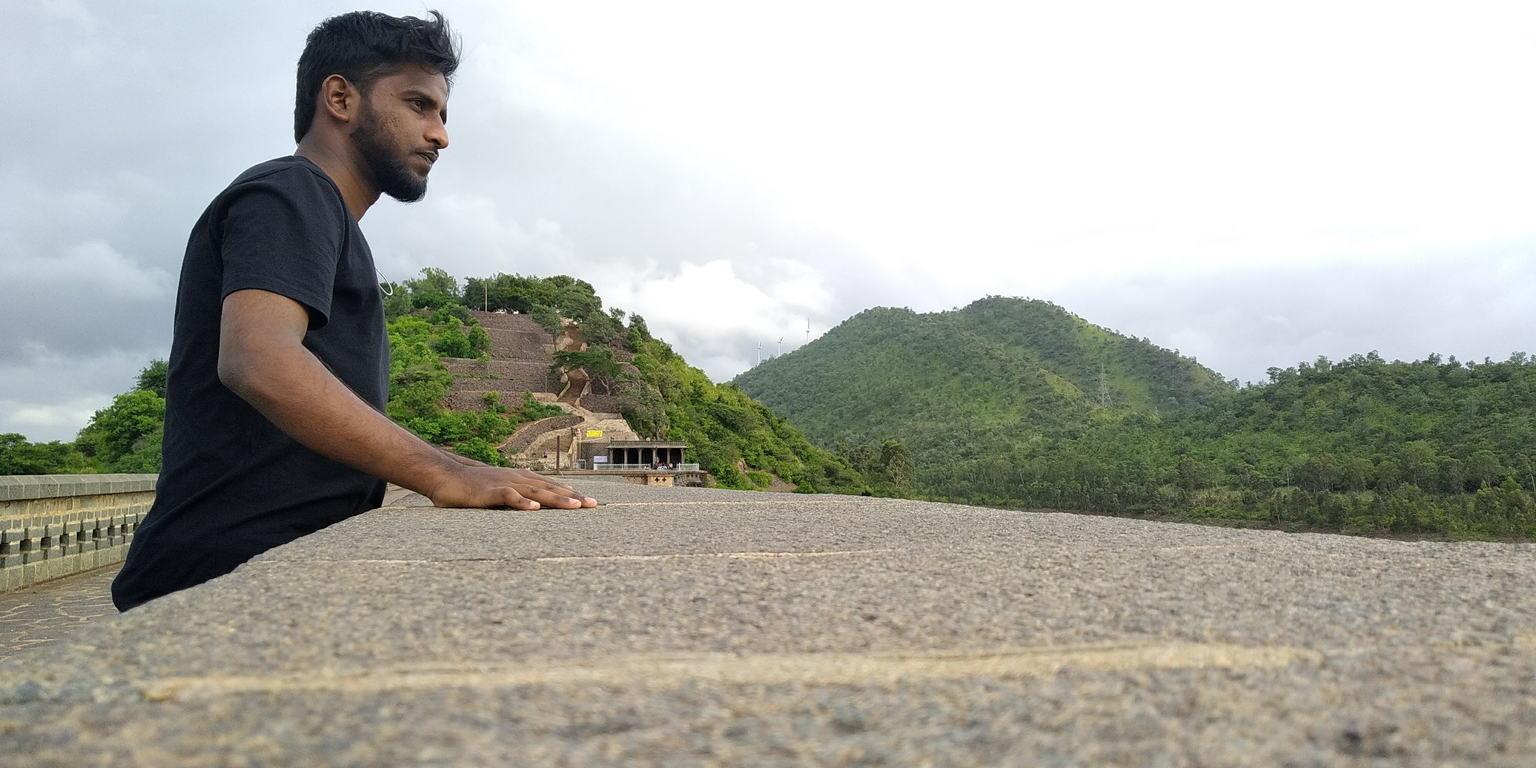
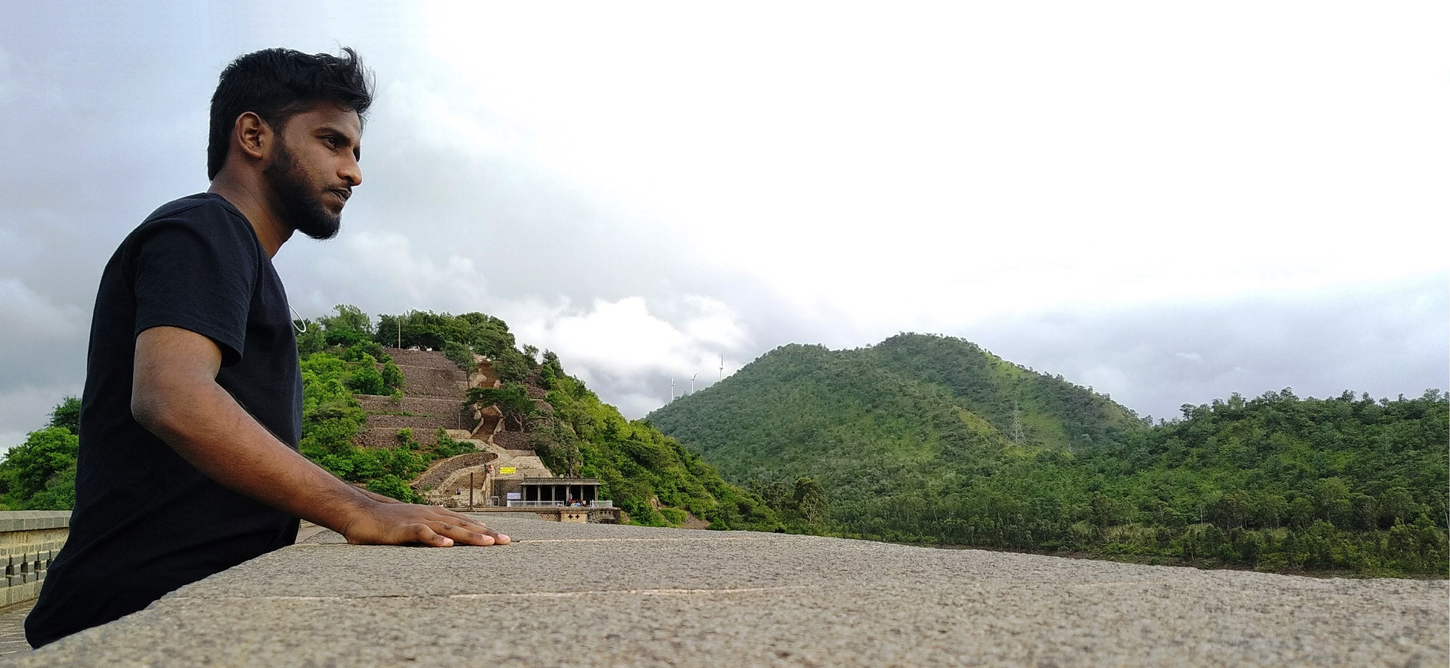
bg for about ready

diff --git a/src/views/css/About.css b/src/views/css/About.css
@@ -7,12 +7,8 @@
   justify-content: center;
   align-items: center;
   background-image: url("/src/assests/HiriyurDamC.jpg");
-  /* background-image: url("/../docs//BlogPics/descbg.jpg"); */
   background-size: cover;
   background-repeat: no-repeat;
-  filter: invert(0.10);
-  /* background-color: rgba(115, 216, 247, 0.486); */
-  /* background-color: rgba(156, 250, 168, 0.486); */
-  background-color: rgba(131, 243, 146, 0.486);
+  background-color: rgba(85, 105, 104, 0.315);
   background-blend-mode: multiply;
 }

diff --git a/src/views/css/Home.css b/src/views/css/Home.css
@@ -6,12 +6,11 @@
   display: flex;
   justify-content: center;
   align-items: center;
-  /* background-image: url("/src/assests/HiriyurDamC.jpg"); */
   background-image: url("/src/assests/BG.jpg");
   background-size: cover;
   background-repeat: no-repeat;
-  /* background-color: rgb(255, 0, 13);  */
-  /* background-blend-mode: multiply; */
+  background-color: rgba(126, 107, 108, 0.171);
+  background-blend-mode: multiply;
 }
 .home .content .name-tag,
 .home .content .bio-tag {

diff --git a/src/App.js b/src/App.js
@@ -37,11 +37,11 @@ const App = () => {
 
   return (
     <Suspense
-    // fallback={
-    //   <div style={{ position: "fixed", left: "45vw", top: "45vh" }}>
-    //     __ PM __
-    //   </div>
-    // }
+      fallback={
+        <div style={{ position: "fixed", left: "45vw", top: "45vh" }}>
+          __ PM __
+        </div>
+      }
     >
       <Routes>
         <Route path="/" element={<Home />} />

diff --git a/src/index.css b/src/index.css
@@ -9,10 +9,7 @@
 }
 body {
   text-align: center;
-  /* background-color: rgba(84, 204, 240, 0.253); */
   background-color: rgba(160, 241, 255, 0.582);
-  /* background-color: #ddd; */
-  /* height: 10000px; */
 }
 h1,
 h2,
